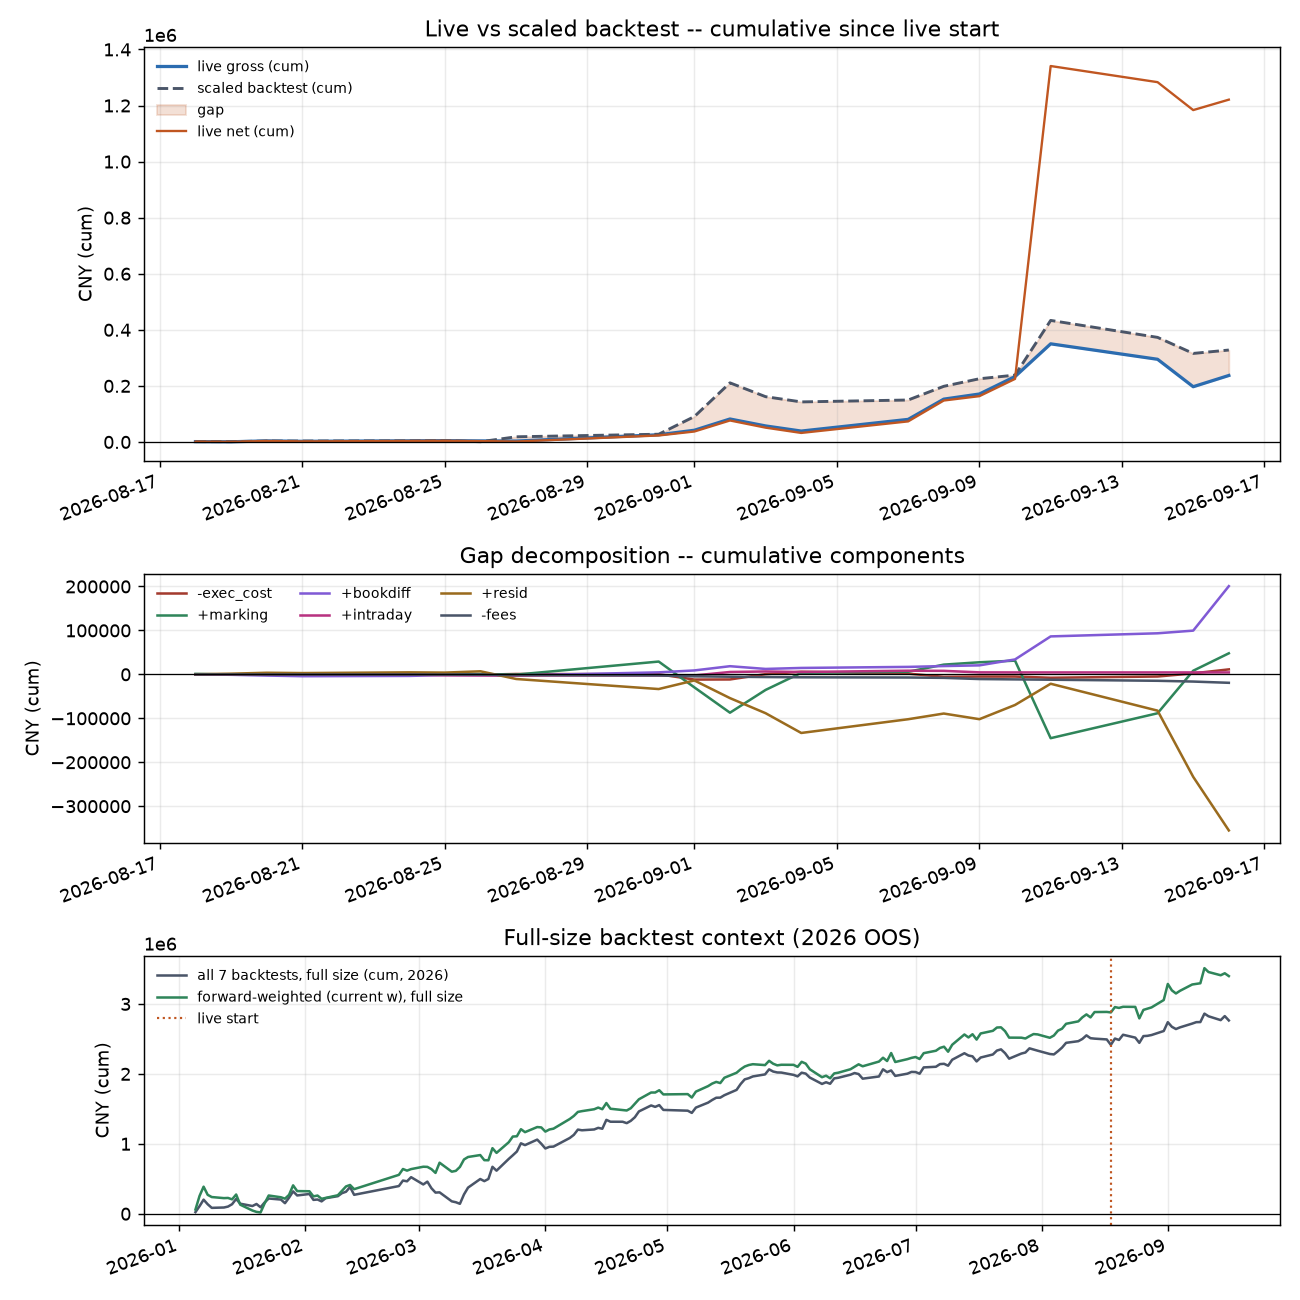
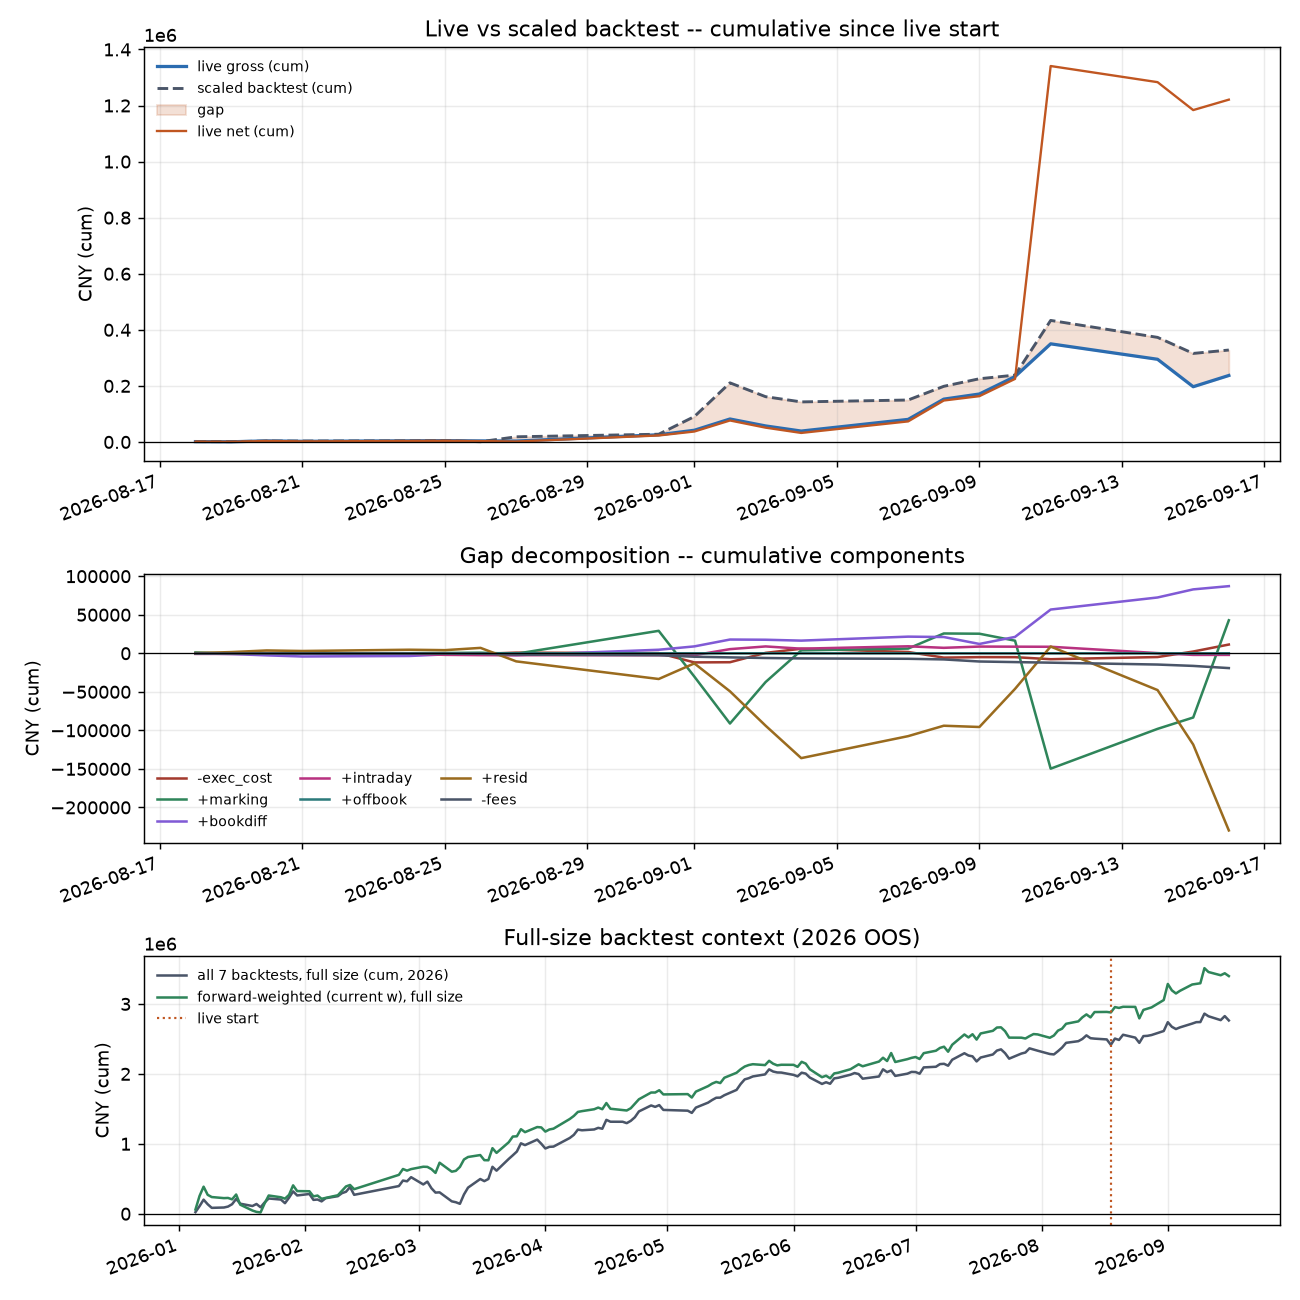
tracker: 2026-09-17 report

diff --git a/reports/daily/2026-09-17.md b/reports/daily/2026-09-17.md
@@ -10,23 +10,21 @@
 - SCALE CHANGE on 2026-08-27: now 0.2.
 - SCALE CHANGE on 2026-09-01: now 0.5.
 - SCALE CHANGE on 2026-09-09: now 1.
-- BACKTEST REVISED: agri_event -- 36 mature row(s) changed since last run (net +225 CNY, largest 2026-04-30 +22940 -> +25440; first 2026-01-05, last 2026-05-06). Regeneration upstream; baseline re-set.
 - SLIPPAGE 2026-09-17: 8 unbenchmarked leg(s), +522 CNY exec cost without a shipped decision price.
 - SLIPPAGE COVERAGE 2026-09-17: only 78% of traded notional had a shipped decision price (< 80%) -- slip_total does not measure the whole book; check the forward meta union on the advisor.
 - RESIDUAL 2026-08-27: -17482 CNY vs trailing median |resid| 1250, offset by neither neighbour (2026-08-26 +2944, 2026-08-31 -22890) -- attribution quality changed. (A break-out that a neighbouring day mirrors is the backtest/live day-window straddle and is not alerted.)
-- RESIDUAL 2026-09-02: -40238 CNY vs trailing median |resid| 1864, offset by neither neighbour (2026-09-01 +19604, 2026-09-03 -34344) -- attribution quality changed. (A break-out that a neighbouring day mirrors is the backtest/live day-window straddle and is not alerted.)
-- RESIDUAL 2026-09-03: -34344 CNY vs trailing median |resid| 2513, offset by neither neighbour (2026-09-02 -40238, 2026-09-04 -44954) -- attribution quality changed. (A break-out that a neighbouring day mirrors is the backtest/live day-window straddle and is not alerted.)
-- RESIDUAL 2026-09-15: -150644 CNY vs trailing median |resid| 33354, offset by neither neighbour (2026-09-14 -61199, 2026-09-16 -121954) -- attribution quality changed. (A break-out that a neighbouring day mirrors is the backtest/live day-window straddle and is not alerted.)
+- RESIDUAL 2026-09-02: -36248 CNY vs trailing median |resid| 1884, offset by neither neighbour (2026-09-01 +20264, 2026-09-03 -44604) -- attribution quality changed. (A break-out that a neighbouring day mirrors is the backtest/live day-window straddle and is not alerted.)
+- RESIDUAL 2026-09-03: -44604 CNY vs trailing median |resid| 2533, offset by neither neighbour (2026-09-02 -36248, 2026-09-04 -42074) -- attribution quality changed. (A break-out that a neighbouring day mirrors is the backtest/live day-window straddle and is not alerted.)
 
 ## Latest reconciled day (2026-09-16, forward regime)
 live gross +40,060 | expected (1 x bt +12,079) = +12,079 | gap +27,981
-  exec_cost -9,070 (slip -8,925, unbench -145) | marking +39,645 | bookdiff +101,220 (carry +101,220, new +0) | intraday +0 | residual -121,954 (live re-marked to first decision, vs the previous backtest row)
+  exec_cost -9,070 (slip -8,925, unbench -145) | marking +126,165 | bookdiff +4,200 (carry +4,200, new +0) | intraday +0 | offbook +0 (0 contract(s)) | residual -111,454 (live re-marked to first decision, vs the previous backtest row)
   fees +2,836 | broker residual +0 -> live net +37,224
 
 ## Cumulative bridge (live since 2026-08-18, 21 reconciled days)
-| expected | -exec | +marking | +bookdiff | +intraday | +resid | = live gross | -fees | +broker_resid | = live net |
-|---|---|---|---|---|---|---|---|---|---|
-| +327,900 | +11,338 | +47,915 | +200,735 | +4,402 | -355,165 | +237,125 | -19,211 | +3,040 | +1,220,954 |
+| expected | -exec | +marking | +bookdiff | +intraday | +offbook | +resid | = live gross | -fees | +broker_resid | = live net |
+|---|---|---|---|---|---|---|---|---|---|---|
+| +327,900 | +11,338 | +42,815 | +87,105 | -2,108 | -50 | -229,875 | +237,125 | -19,211 | +3,040 | +1,220,954 |
 missing live days excluded: 2026-08-28 (expected +4,849 held in bucket)
 
 ## Stats (daily CNY pnl)
@@ -82,31 +80,32 @@ ranked by |all-in| over the live window (all-in = drift + exec = the bridge's ex
 | Calendar main pool (branch) | yes | +609,755 | +15,205 | +188,767 | forward w=0.8 |
 | Fundamental factor | yes | +812,991 | +358,416 | +192,950 | forward w=2 |
 | Cross-product pairs | yes | +113,085 | +2,513 | -34,291 | forward w=1.5 |
-| Calendar extended pool | yes | +439,995 | +12,064 | +24,821 | forward w=0.25 |
+| Calendar extended pool | yes | +439,995 | +12,064 | +50,441 | forward w=0.25 |
 | Chemical fundamental | yes | +433,320 | +26,920 | -4,041 | forward w=1.5 |
 | Agriculture event-driven | yes | +86,155 | -49,243 | -4,216 | forward w=1 |
 | Factor-neutral stat arb | yes | +268,454 | -37,976 | -73,745 | forward w=1 |
 | shared bucket | - | - | - | -23,225 | legacy multi-holder / forward offsetting |
-| neither bucket (no target) | - | - | - | -29,895 | inherited/manual/rounding |
+| neither bucket (no target) | - | - | - | -55,515 | inherited/manual/rounding |
 forward-day attribution is pro-rated by weighted full-size lots; legacy days remain exclusive-holder.
 
 ## Per strategy gap by day, last 10 reconciled days (live attributed - expected, CNY)
 | day | ks_branch | fund_v3 | china_pairs | ks_ext | chem_fund | agri_event | stat_arb | total |
 |---|---|---|---|---|---|---|---|---|
-| 2026-09-03 | -12,509 | +43,683 | -4,578 | +2,302 | -12,407 | +7,612 | +5,220 | +29,323 |
-| 2026-09-04 | +6,112 | +10,838 | -9,893 | -1,861 | -6,843 | +1,891 | -4,736 | -4,492 |
-| 2026-09-07 | +10,211 | -174 | +8,457 | +5,402 | +11,696 | -6,594 | +3,412 | +32,409 |
-| 2026-09-08 | +17,829 | +7,803 | -10,431 | +3,343 | +2,092 | +614 | -5,188 | +16,062 |
-| 2026-09-09 | +4,589 | -21,778 | +10,382 | -3,125 | -152 | +3,603 | -11,751 | -18,233 |
-| 2026-09-10 | +22,549 | -3,716 | +1,547 | -2,251 | +14,353 | -8,820 | +13,400 | +37,063 |
-| 2026-09-11 | +17,230 | -147,014 | -10,236 | +4,668 | +2,398 | +6,123 | -11,105 | -137,937 |
-| 2026-09-14 | +83,414 | +3,777 | -11,197 | +2,616 | -43,055 | +18,346 | -15,854 | +38,046 |
-| 2026-09-15 | -2,273 | +15,986 | +1,254 | +2,416 | +4,900 | +10,234 | +2,813 | +35,331 |
-| 2026-09-16 | +7,705 | +11,573 | +15,970 | -2,090 | +8,146 | +14,414 | -9,038 | +46,681 |
-| sum | +154,856 | -79,020 | -8,726 | +11,421 | -18,872 | +47,423 | -32,827 | +74,255 |
+| 2026-09-03 | -12,509 | +43,683 | -4,578 | +1,882 | -12,407 | +7,612 | +5,220 | +28,903 |
+| 2026-09-04 | +6,112 | +10,838 | -9,893 | -2,761 | -6,843 | +1,891 | -4,736 | -5,392 |
+| 2026-09-07 | +10,211 | -174 | +8,457 | +6,362 | +11,696 | -6,594 | +3,412 | +33,369 |
+| 2026-09-08 | +17,829 | +7,803 | -10,431 | +7,963 | +2,092 | +614 | -5,188 | +20,682 |
+| 2026-09-09 | +4,589 | -21,778 | +10,382 | +5,155 | -152 | +3,603 | -11,751 | -9,953 |
+| 2026-09-10 | +22,549 | -3,716 | +1,547 | +14,549 | +14,353 | -8,820 | +13,400 | +53,863 |
+| 2026-09-11 | +17,230 | -147,014 | -10,236 | +61,128 | +2,398 | +6,123 | -11,105 | -81,477 |
+| 2026-09-14 | +83,414 | +3,777 | -11,197 | +8,256 | -43,055 | +18,346 | -15,854 | +43,686 |
+| 2026-09-15 | -2,273 | +15,986 | +1,254 | -82,964 | +4,900 | +10,234 | +2,813 | -50,049 |
+| 2026-09-16 | +7,705 | +11,573 | +15,970 | +17,770 | +8,146 | +14,414 | -9,038 | +66,541 |
+| sum | +154,856 | -79,020 | -8,726 | +37,341 | -18,872 | +47,423 | -32,827 | +100,175 |
 full series: data/per_strategy_daily.csv (day, strategy, expected, attributed, gap); a strategy's daily total foots to expected - live_gross once the shared and neither buckets are added.
 
 ## Data health
+decision-price coverage (2026-09-16): 100% of held notional benchmarked (0 contract(s) unbenchmarked); 9 contract(s) (18%) first decided after the 0900 snap, so they straddle their own overnight leg
 scale: 1 (since 2026-09-09)
 regime: forward (merged weighted book) since 2026-08-31; 13 forward day(s), 8 legacy day(s)
 merge weights (2026-09-17): ks_branch 0.8, fund_v3 2, china_pairs 1.5, ks_ext 0.25, chem_fund 1.5, agri_event 1, stat_arb 1

diff --git a/reports/latest.md b/reports/latest.md
@@ -10,23 +10,21 @@
 - SCALE CHANGE on 2026-08-27: now 0.2.
 - SCALE CHANGE on 2026-09-01: now 0.5.
 - SCALE CHANGE on 2026-09-09: now 1.
-- BACKTEST REVISED: agri_event -- 36 mature row(s) changed since last run (net +225 CNY, largest 2026-04-30 +22940 -> +25440; first 2026-01-05, last 2026-05-06). Regeneration upstream; baseline re-set.
 - SLIPPAGE 2026-09-17: 8 unbenchmarked leg(s), +522 CNY exec cost without a shipped decision price.
 - SLIPPAGE COVERAGE 2026-09-17: only 78% of traded notional had a shipped decision price (< 80%) -- slip_total does not measure the whole book; check the forward meta union on the advisor.
 - RESIDUAL 2026-08-27: -17482 CNY vs trailing median |resid| 1250, offset by neither neighbour (2026-08-26 +2944, 2026-08-31 -22890) -- attribution quality changed. (A break-out that a neighbouring day mirrors is the backtest/live day-window straddle and is not alerted.)
-- RESIDUAL 2026-09-02: -40238 CNY vs trailing median |resid| 1864, offset by neither neighbour (2026-09-01 +19604, 2026-09-03 -34344) -- attribution quality changed. (A break-out that a neighbouring day mirrors is the backtest/live day-window straddle and is not alerted.)
-- RESIDUAL 2026-09-03: -34344 CNY vs trailing median |resid| 2513, offset by neither neighbour (2026-09-02 -40238, 2026-09-04 -44954) -- attribution quality changed. (A break-out that a neighbouring day mirrors is the backtest/live day-window straddle and is not alerted.)
-- RESIDUAL 2026-09-15: -150644 CNY vs trailing median |resid| 33354, offset by neither neighbour (2026-09-14 -61199, 2026-09-16 -121954) -- attribution quality changed. (A break-out that a neighbouring day mirrors is the backtest/live day-window straddle and is not alerted.)
+- RESIDUAL 2026-09-02: -36248 CNY vs trailing median |resid| 1884, offset by neither neighbour (2026-09-01 +20264, 2026-09-03 -44604) -- attribution quality changed. (A break-out that a neighbouring day mirrors is the backtest/live day-window straddle and is not alerted.)
+- RESIDUAL 2026-09-03: -44604 CNY vs trailing median |resid| 2533, offset by neither neighbour (2026-09-02 -36248, 2026-09-04 -42074) -- attribution quality changed. (A break-out that a neighbouring day mirrors is the backtest/live day-window straddle and is not alerted.)
 
 ## Latest reconciled day (2026-09-16, forward regime)
 live gross +40,060 | expected (1 x bt +12,079) = +12,079 | gap +27,981
-  exec_cost -9,070 (slip -8,925, unbench -145) | marking +39,645 | bookdiff +101,220 (carry +101,220, new +0) | intraday +0 | residual -121,954 (live re-marked to first decision, vs the previous backtest row)
+  exec_cost -9,070 (slip -8,925, unbench -145) | marking +126,165 | bookdiff +4,200 (carry +4,200, new +0) | intraday +0 | offbook +0 (0 contract(s)) | residual -111,454 (live re-marked to first decision, vs the previous backtest row)
   fees +2,836 | broker residual +0 -> live net +37,224
 
 ## Cumulative bridge (live since 2026-08-18, 21 reconciled days)
-| expected | -exec | +marking | +bookdiff | +intraday | +resid | = live gross | -fees | +broker_resid | = live net |
-|---|---|---|---|---|---|---|---|---|---|
-| +327,900 | +11,338 | +47,915 | +200,735 | +4,402 | -355,165 | +237,125 | -19,211 | +3,040 | +1,220,954 |
+| expected | -exec | +marking | +bookdiff | +intraday | +offbook | +resid | = live gross | -fees | +broker_resid | = live net |
+|---|---|---|---|---|---|---|---|---|---|---|
+| +327,900 | +11,338 | +42,815 | +87,105 | -2,108 | -50 | -229,875 | +237,125 | -19,211 | +3,040 | +1,220,954 |
 missing live days excluded: 2026-08-28 (expected +4,849 held in bucket)
 
 ## Stats (daily CNY pnl)
@@ -82,31 +80,32 @@ ranked by |all-in| over the live window (all-in = drift + exec = the bridge's ex
 | Calendar main pool (branch) | yes | +609,755 | +15,205 | +188,767 | forward w=0.8 |
 | Fundamental factor | yes | +812,991 | +358,416 | +192,950 | forward w=2 |
 | Cross-product pairs | yes | +113,085 | +2,513 | -34,291 | forward w=1.5 |
-| Calendar extended pool | yes | +439,995 | +12,064 | +24,821 | forward w=0.25 |
+| Calendar extended pool | yes | +439,995 | +12,064 | +50,441 | forward w=0.25 |
 | Chemical fundamental | yes | +433,320 | +26,920 | -4,041 | forward w=1.5 |
 | Agriculture event-driven | yes | +86,155 | -49,243 | -4,216 | forward w=1 |
 | Factor-neutral stat arb | yes | +268,454 | -37,976 | -73,745 | forward w=1 |
 | shared bucket | - | - | - | -23,225 | legacy multi-holder / forward offsetting |
-| neither bucket (no target) | - | - | - | -29,895 | inherited/manual/rounding |
+| neither bucket (no target) | - | - | - | -55,515 | inherited/manual/rounding |
 forward-day attribution is pro-rated by weighted full-size lots; legacy days remain exclusive-holder.
 
 ## Per strategy gap by day, last 10 reconciled days (live attributed - expected, CNY)
 | day | ks_branch | fund_v3 | china_pairs | ks_ext | chem_fund | agri_event | stat_arb | total |
 |---|---|---|---|---|---|---|---|---|
-| 2026-09-03 | -12,509 | +43,683 | -4,578 | +2,302 | -12,407 | +7,612 | +5,220 | +29,323 |
-| 2026-09-04 | +6,112 | +10,838 | -9,893 | -1,861 | -6,843 | +1,891 | -4,736 | -4,492 |
-| 2026-09-07 | +10,211 | -174 | +8,457 | +5,402 | +11,696 | -6,594 | +3,412 | +32,409 |
-| 2026-09-08 | +17,829 | +7,803 | -10,431 | +3,343 | +2,092 | +614 | -5,188 | +16,062 |
-| 2026-09-09 | +4,589 | -21,778 | +10,382 | -3,125 | -152 | +3,603 | -11,751 | -18,233 |
-| 2026-09-10 | +22,549 | -3,716 | +1,547 | -2,251 | +14,353 | -8,820 | +13,400 | +37,063 |
-| 2026-09-11 | +17,230 | -147,014 | -10,236 | +4,668 | +2,398 | +6,123 | -11,105 | -137,937 |
-| 2026-09-14 | +83,414 | +3,777 | -11,197 | +2,616 | -43,055 | +18,346 | -15,854 | +38,046 |
-| 2026-09-15 | -2,273 | +15,986 | +1,254 | +2,416 | +4,900 | +10,234 | +2,813 | +35,331 |
-| 2026-09-16 | +7,705 | +11,573 | +15,970 | -2,090 | +8,146 | +14,414 | -9,038 | +46,681 |
-| sum | +154,856 | -79,020 | -8,726 | +11,421 | -18,872 | +47,423 | -32,827 | +74,255 |
+| 2026-09-03 | -12,509 | +43,683 | -4,578 | +1,882 | -12,407 | +7,612 | +5,220 | +28,903 |
+| 2026-09-04 | +6,112 | +10,838 | -9,893 | -2,761 | -6,843 | +1,891 | -4,736 | -5,392 |
+| 2026-09-07 | +10,211 | -174 | +8,457 | +6,362 | +11,696 | -6,594 | +3,412 | +33,369 |
+| 2026-09-08 | +17,829 | +7,803 | -10,431 | +7,963 | +2,092 | +614 | -5,188 | +20,682 |
+| 2026-09-09 | +4,589 | -21,778 | +10,382 | +5,155 | -152 | +3,603 | -11,751 | -9,953 |
+| 2026-09-10 | +22,549 | -3,716 | +1,547 | +14,549 | +14,353 | -8,820 | +13,400 | +53,863 |
+| 2026-09-11 | +17,230 | -147,014 | -10,236 | +61,128 | +2,398 | +6,123 | -11,105 | -81,477 |
+| 2026-09-14 | +83,414 | +3,777 | -11,197 | +8,256 | -43,055 | +18,346 | -15,854 | +43,686 |
+| 2026-09-15 | -2,273 | +15,986 | +1,254 | -82,964 | +4,900 | +10,234 | +2,813 | -50,049 |
+| 2026-09-16 | +7,705 | +11,573 | +15,970 | +17,770 | +8,146 | +14,414 | -9,038 | +66,541 |
+| sum | +154,856 | -79,020 | -8,726 | +37,341 | -18,872 | +47,423 | -32,827 | +100,175 |
 full series: data/per_strategy_daily.csv (day, strategy, expected, attributed, gap); a strategy's daily total foots to expected - live_gross once the shared and neither buckets are added.
 
 ## Data health
+decision-price coverage (2026-09-16): 100% of held notional benchmarked (0 contract(s) unbenchmarked); 9 contract(s) (18%) first decided after the 0900 snap, so they straddle their own overnight leg
 scale: 1 (since 2026-09-09)
 regime: forward (merged weighted book) since 2026-08-31; 13 forward day(s), 8 legacy day(s)
 merge weights (2026-09-17): ks_branch 0.8, fund_v3 2, china_pairs 1.5, ks_ext 0.25, chem_fund 1.5, agri_event 1, stat_arb 1
